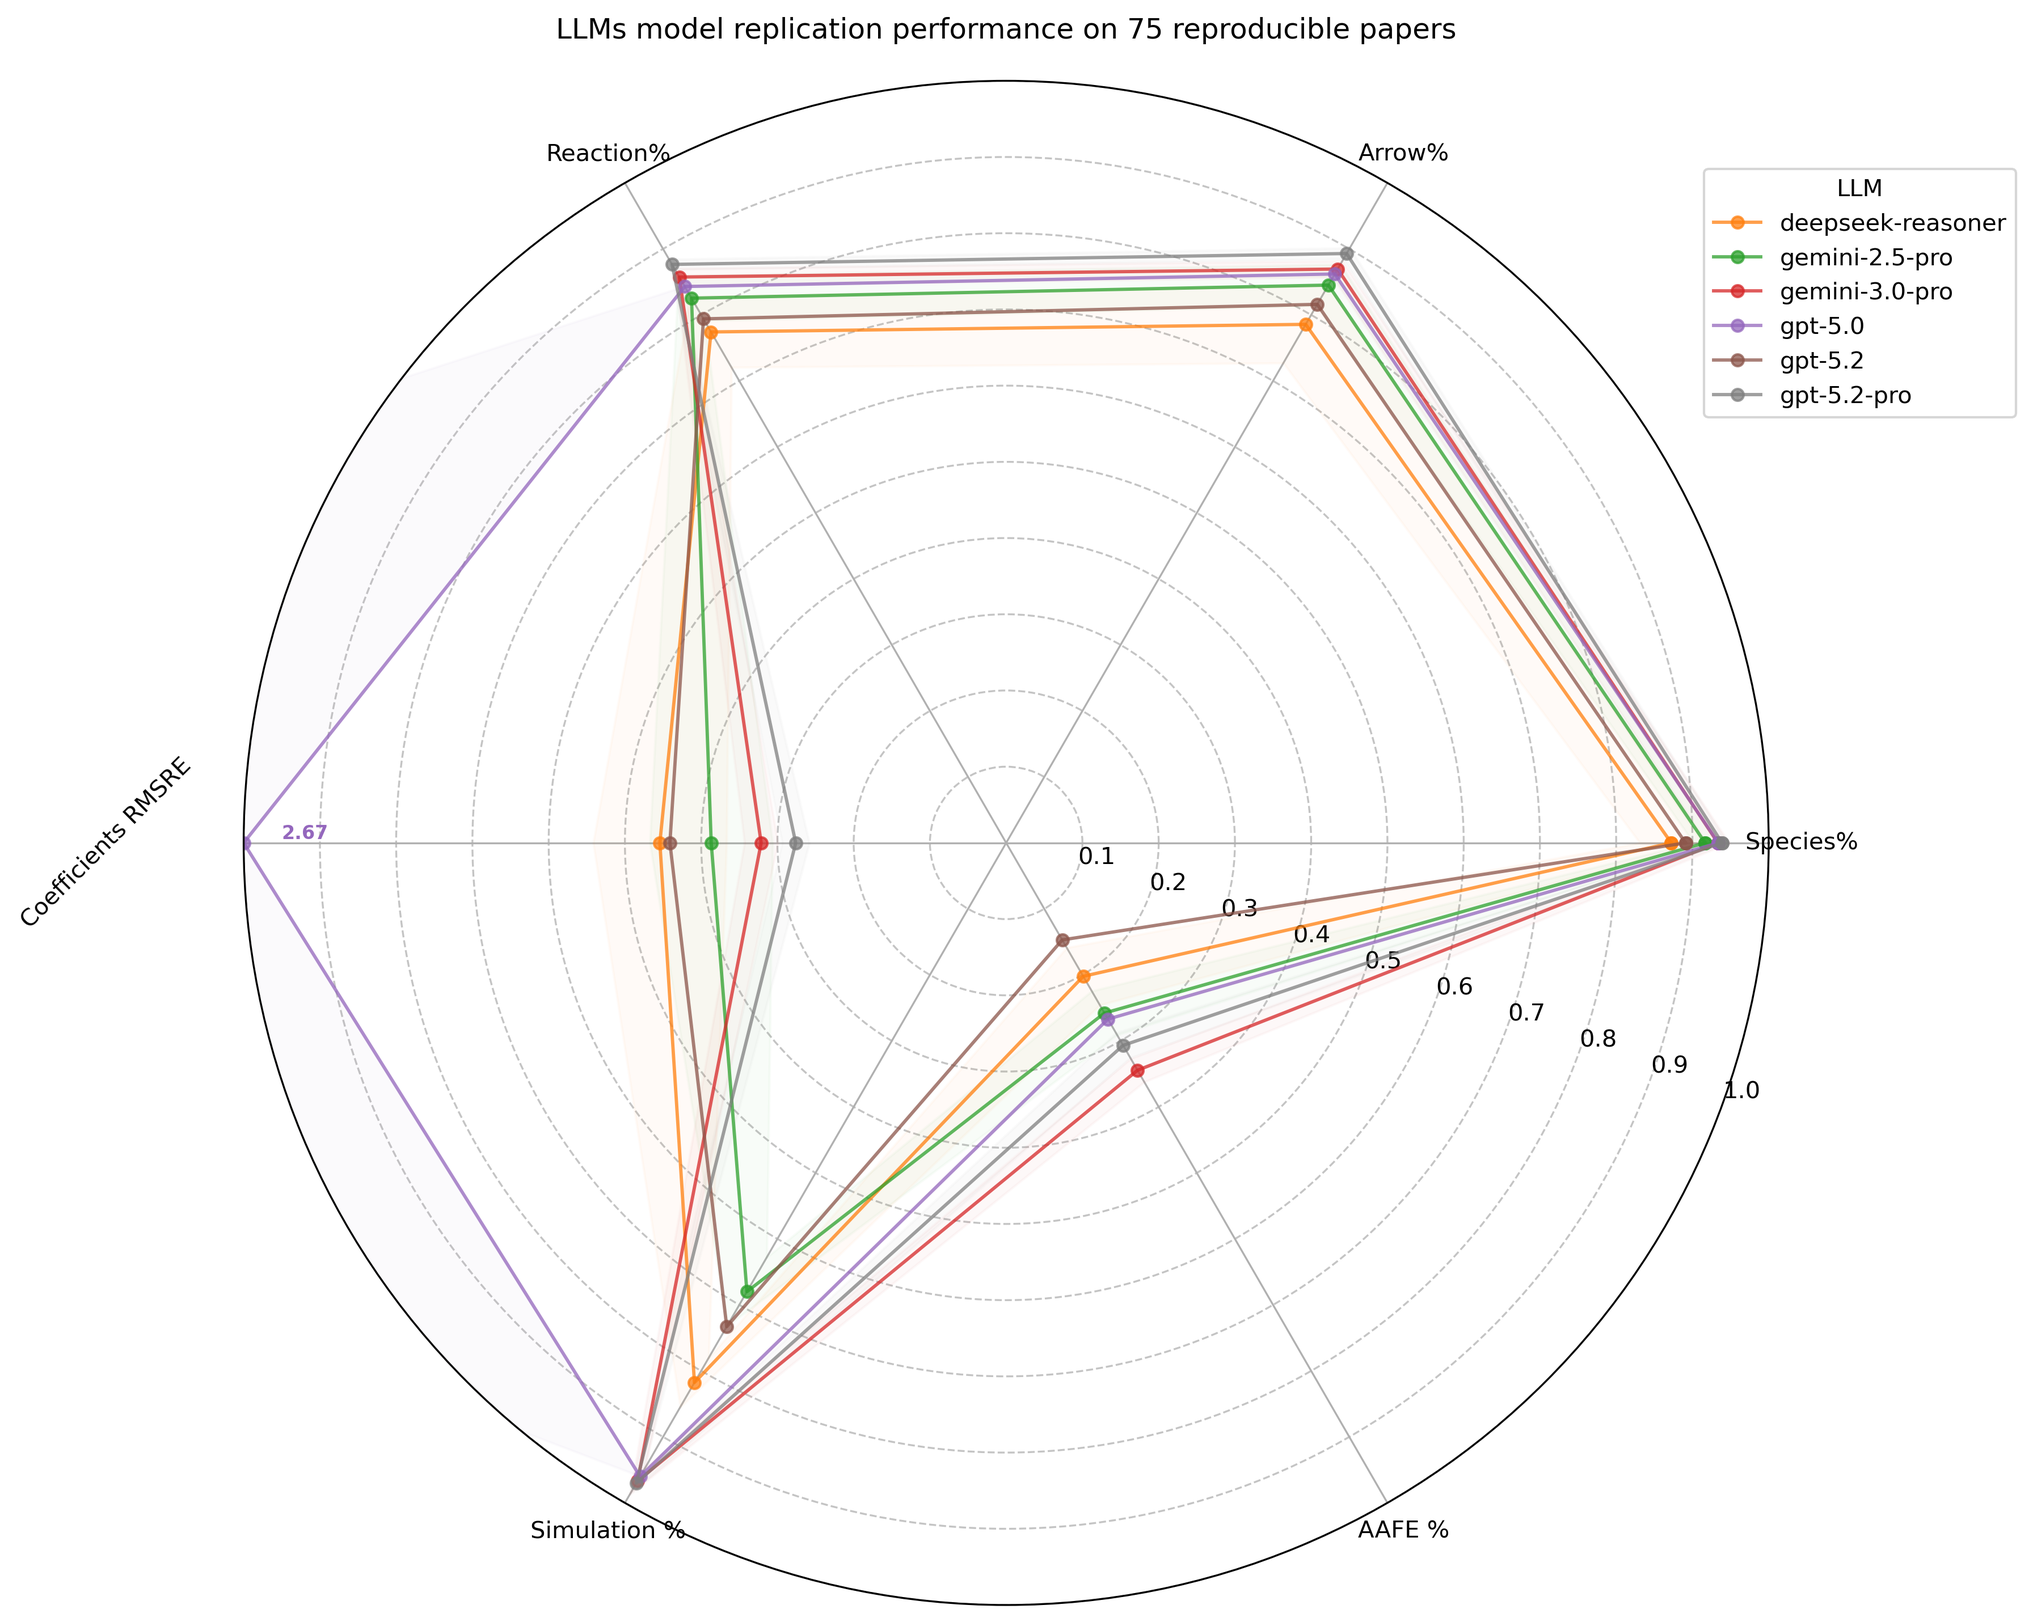
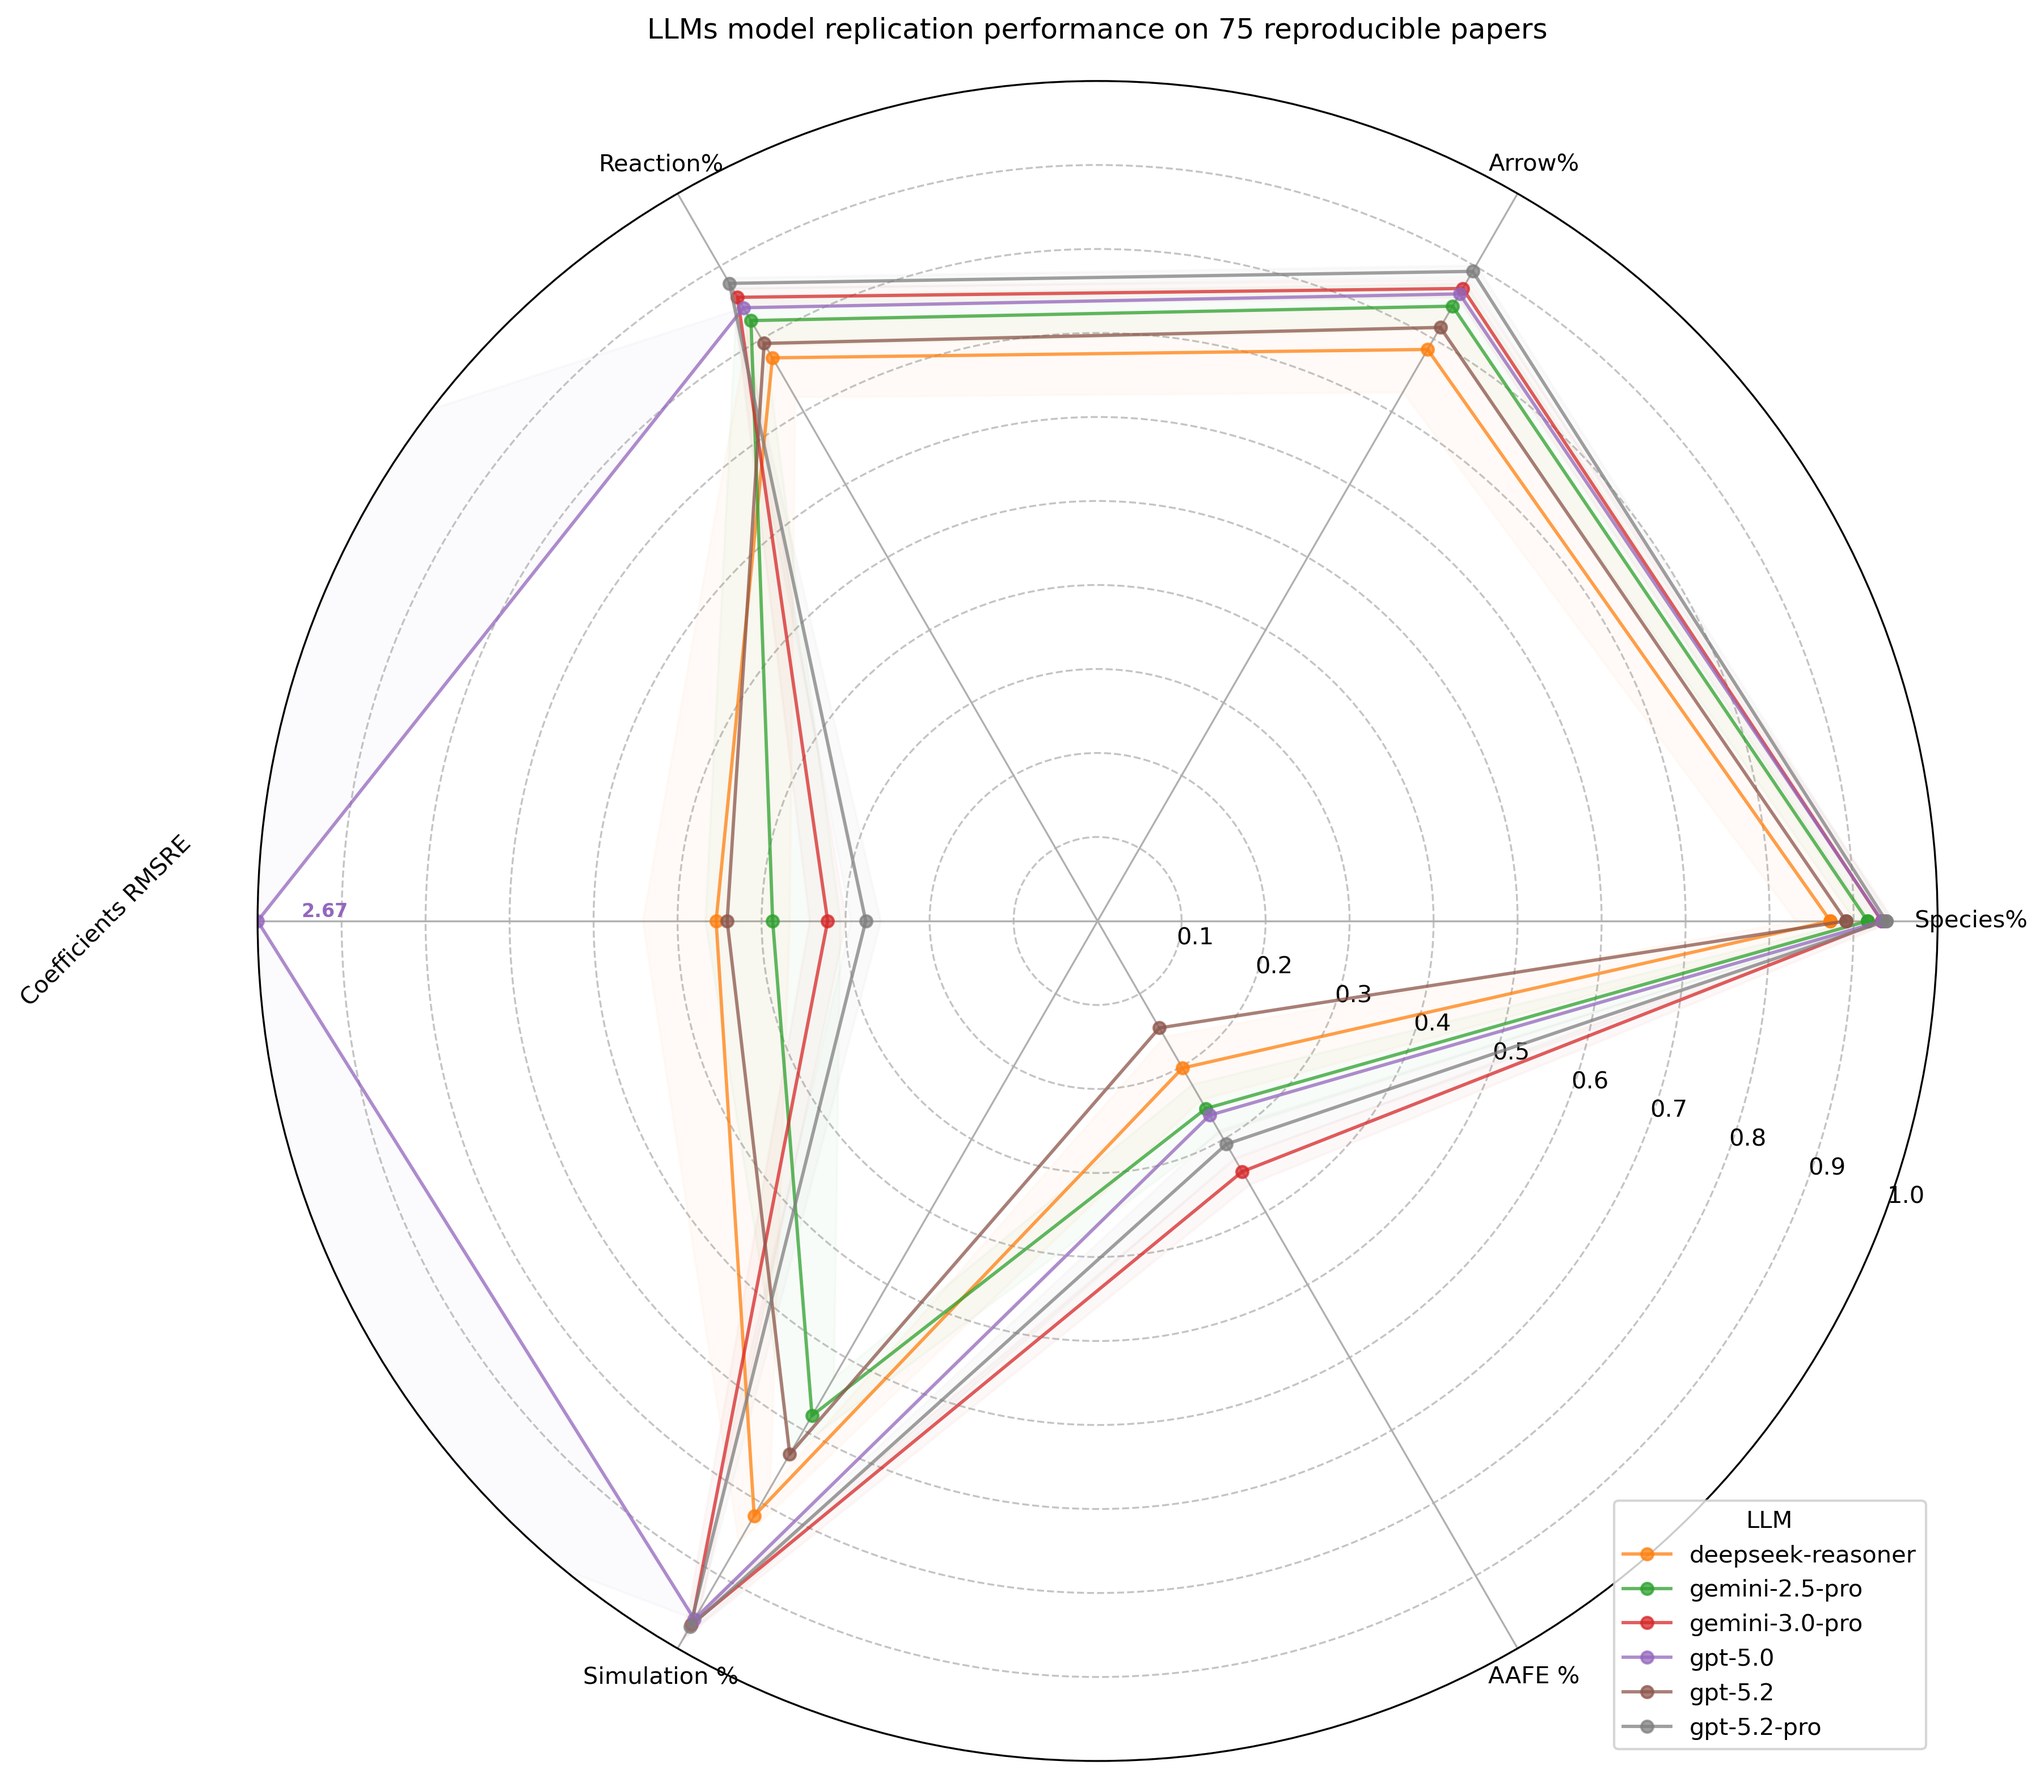
typo

diff --git a/README.md b/README.md
@@ -64,7 +64,9 @@ Converter
 Editor
 ```
 
-Confirm that they are installed:
+Add them following the [guide](#fabric-patterns) (or [contact us](https://www.cosbi.eu/contact)), 
+
+then confirm they are installed:
 
 ```powershell
 fabric --listpatterns
